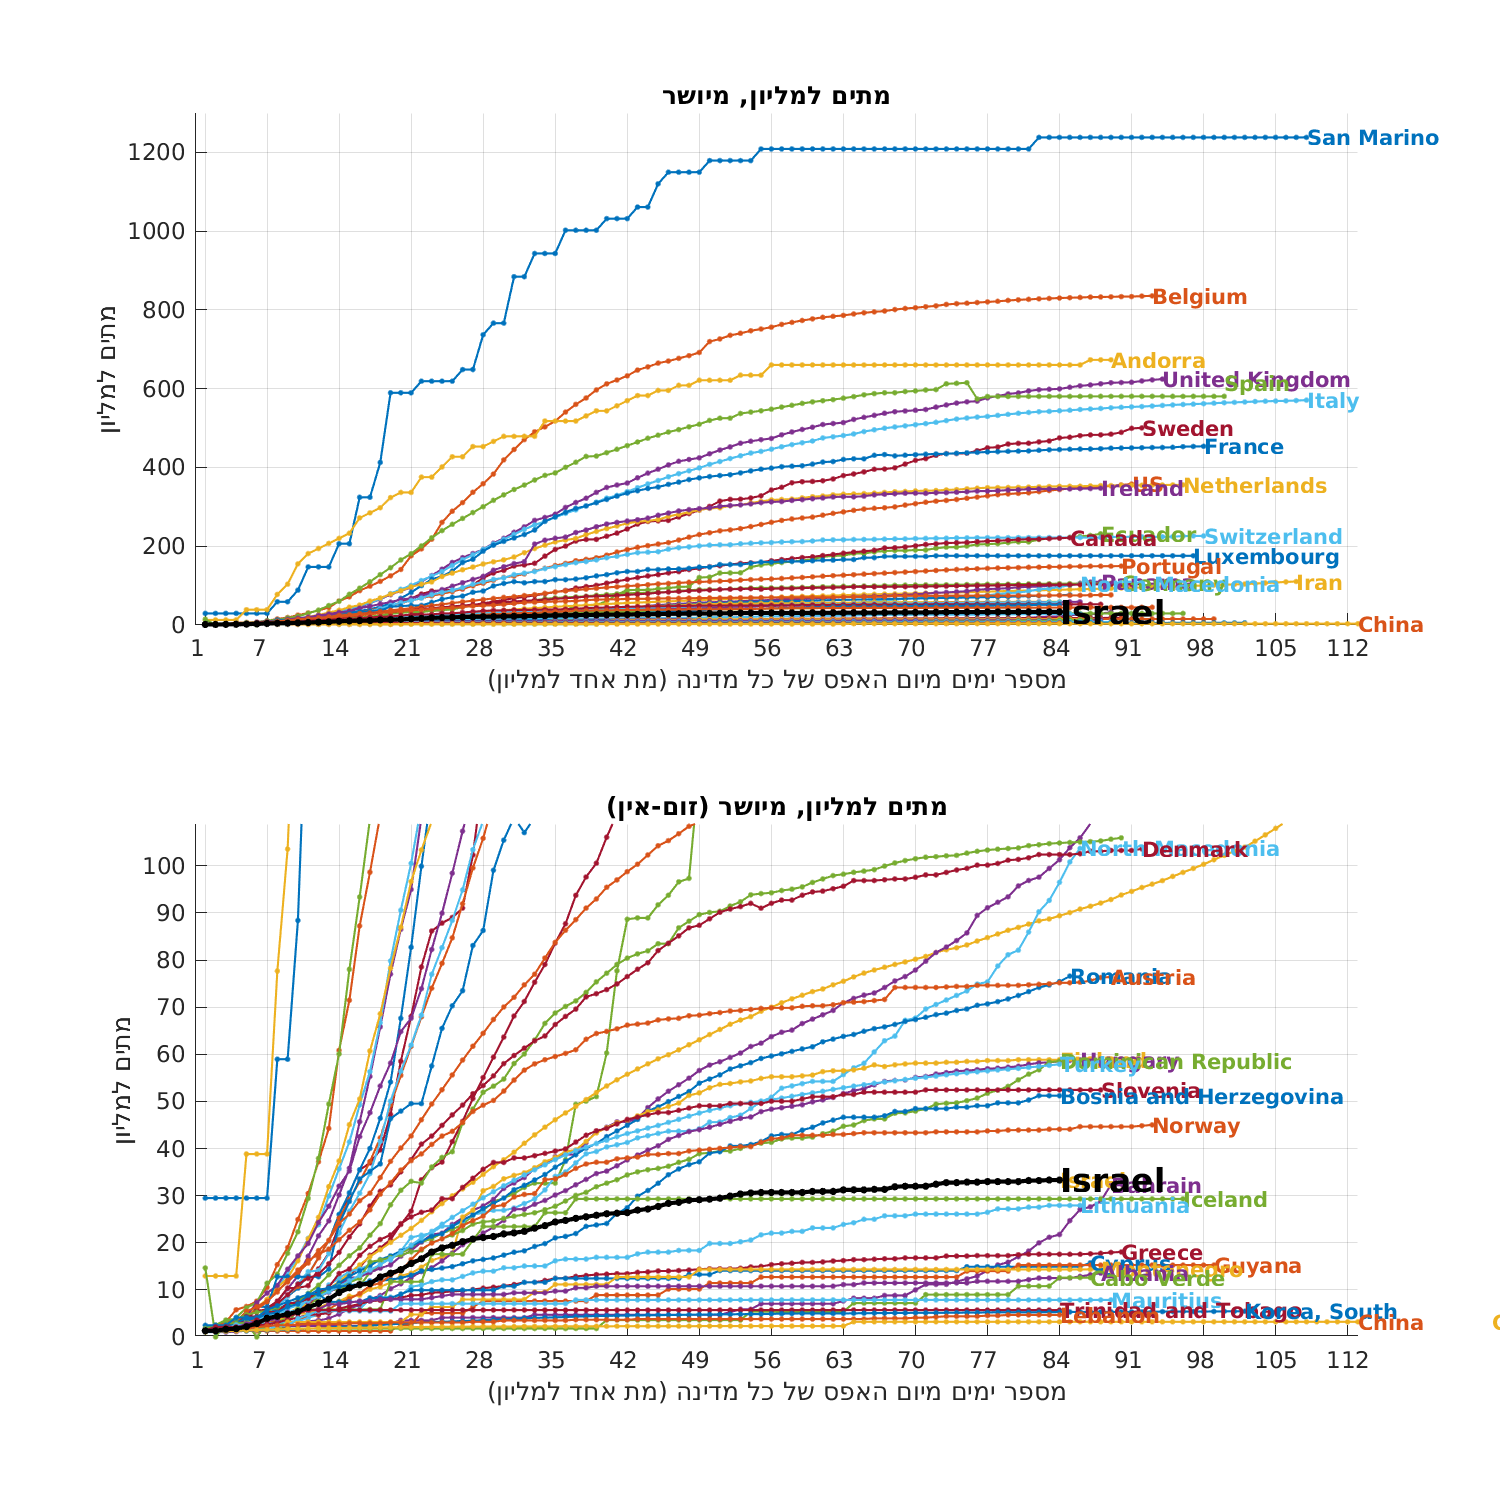
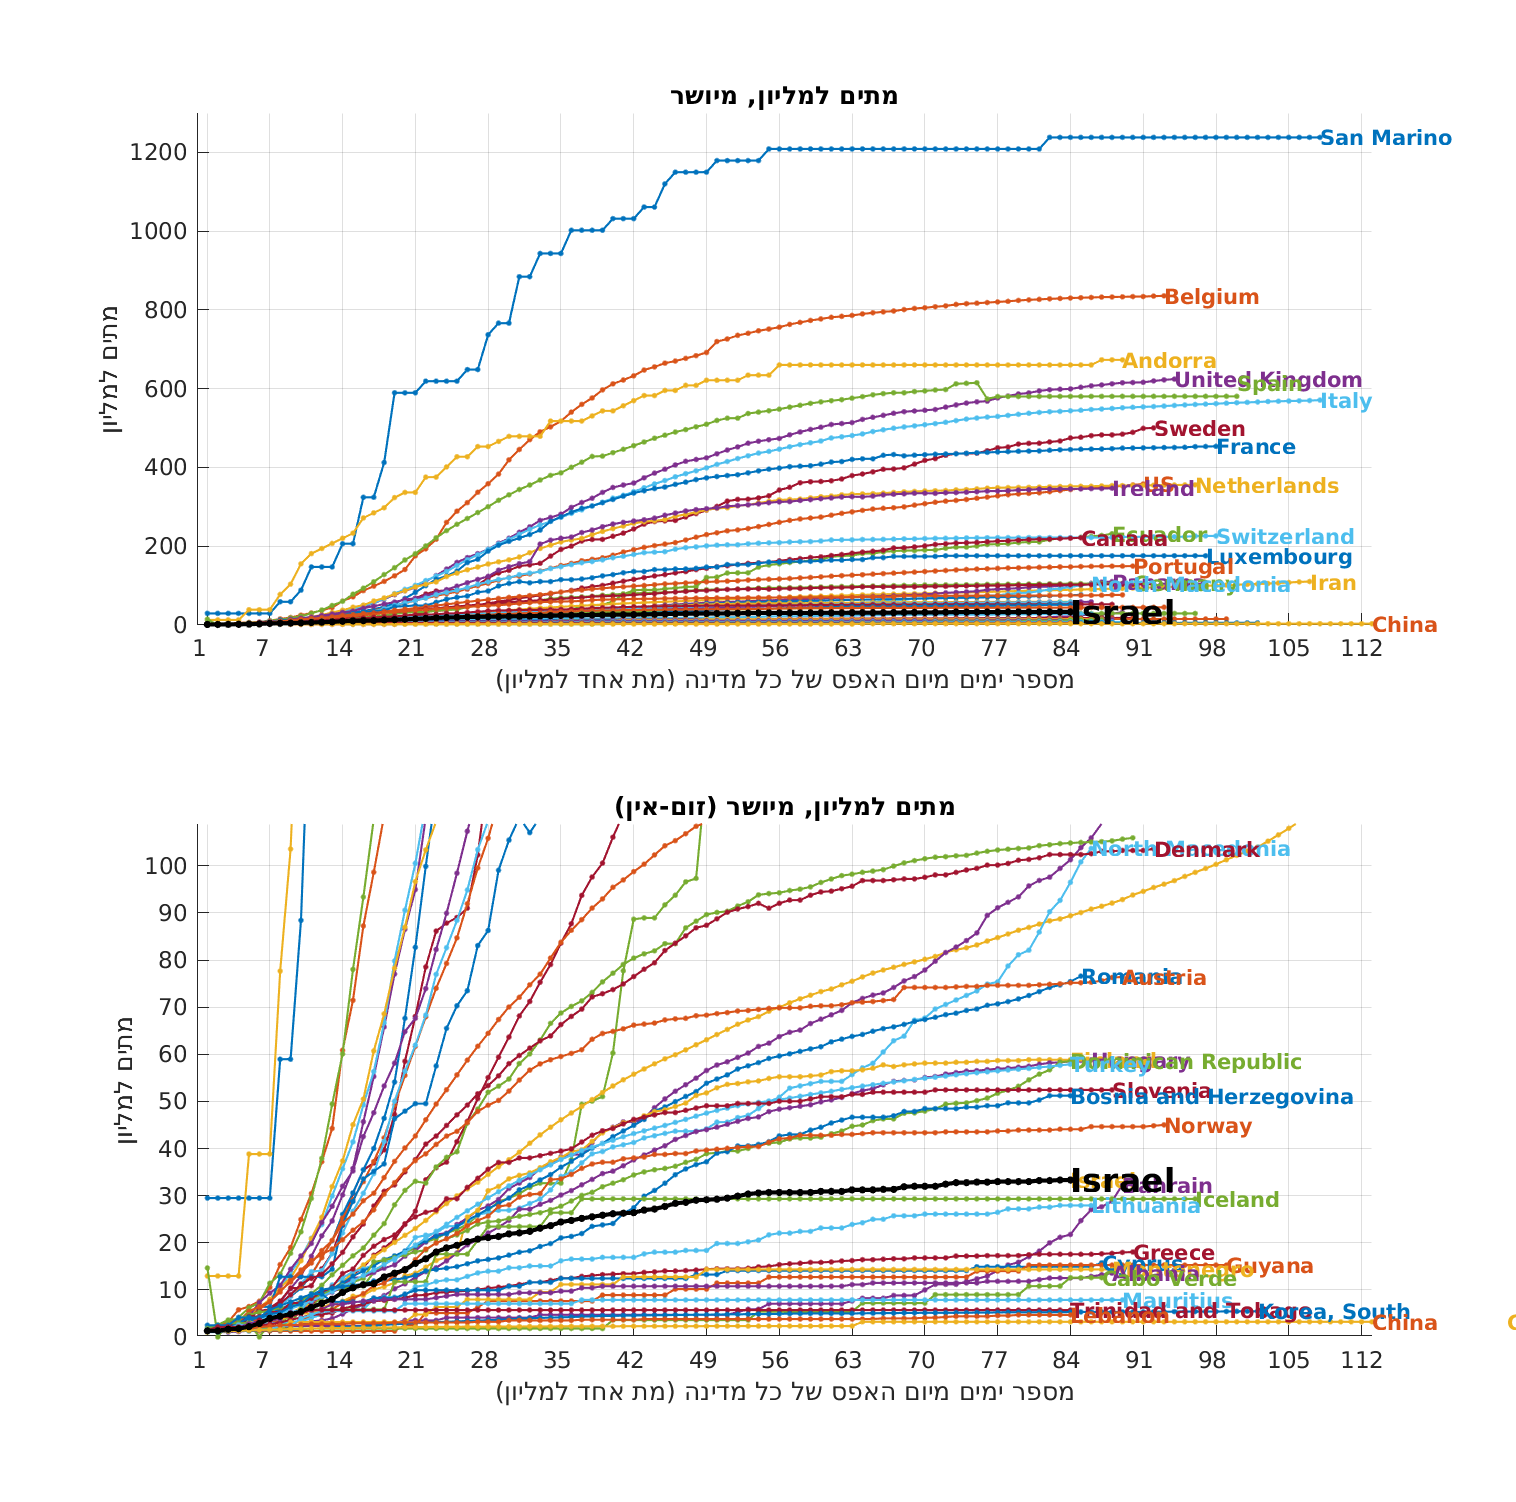
daily update

diff --git a/docs/myCountry.html b/docs/myCountry.html
@@ -123,7 +123,7 @@ body, h1,h2,h3,h4,h5,h6 {font-family: "Montserrat", sans-serif}
     <h1 class="w3-jumbo">מצב חולי הקורונה בישראל, 19.06.2020</h1>
     <h3 align="right"> כמה חולים במצב קשה, מונשמים ומתים מקורונה בכל יום. לא מוצגים נתונים לגבי מספר הנדבקים בקורונה מכיוון שהמספר תלוי במספר הבדיקות שנערכו והוא אינו משקף את מצב התחלואה האמיתי. מספר המתים ומספר המונשמים משקפים טוב יותר את המציאות, ומהם ניתן ללמוד על קצב התפשטות המחלה</h3><br>
     <h4 align="right">מצב המונשמים - (בחמשת הימים האחרונים) כל יום יש כ 1 מונשמים יותר  </h4><br>
-    <h4 align="right">מצב התמותה - (בחמשת הימים האחרונים) כ 0 נפטרים ליום </h4><br>
+    <h4 align="right">מצב התמותה - (בחמשת הימים האחרונים) כ 1 נפטרים ליום </h4><br>
     <img src="myCountry.png" alt="highest" class="w3-image" width="1600">
     <h4 align="right">מימין גרף הסוכם את כל המאושפזים. משמאל אותם הנתונים מוצגים עבור כל קבוצה בנפרד. הגרף מימין מוחלק כדי לראות טרנד כללי. משמאל קל יותר לראות שינויים קצרים, כמו המחזוריות השבועית במספר המאושפזים במצב קל </h4>
   </header>

diff --git a/code/covid_Israel_ministry.m b/code/covid_Israel_ministry.m
@@ -26,40 +26,49 @@ fid = fopen('/home/innereye/Downloads/קורונה - לוח בקרה.html', 'r')
 txt = fread(fid)';
 fclose(fid);
 txt = native2unicode(txt);
-vars = list.Properties.VariableNames(2:end);
 
-ta = strfind(txt,'total-amount');
-ta = ta(2+[1,3:5]);
-iVar = [1,4,3,2];
-iSmaller = strfind(txt,'<');
-misrad = nan(size(vars));
-for ii = 1:length(ta)
-    misrad(1,iVar(ii)) = str2num(strrep(txt(ta(ii)+14:iSmaller(find(iSmaller > ta(ii),1))-1),',',''));
-end
-marker = {
+idx = strfind(txt,'|');
+iDay = find(ismember(txt,'>') & 1:length(txt) < idx,1,'last')+1;
+day = str2num(txt(iDay:iDay+1));
+month = find(cellfun(@(x) contains(txt(iDay:idx),x),{'ינו','פבר','מרץ','אפר','מאי','יונ','יול','אוג','ספט','אוק','נוב','דצמ'}'));
+date = datetime([2020,month,day,str2num(txt(idx+14:idx+15)),str2num(txt(idx+17:idx+18)),0]);
+% date = datetime(str(txt(idx+14:idx+18),'InputFormat','hh:mm');
+if ~ismember(date,list.date)
+    vars = list.Properties.VariableNames(2:end);
+    
+    ta = strfind(txt,'total-amount');
+    ta = ta(2+[1,3:5]);
+    iVar = [1,4,3,2];
+    iSmaller = strfind(txt,'<');
+    misrad = nan(size(vars));
+    for ii = 1:length(ta)
+        misrad(1,iVar(ii)) = str2num(strrep(txt(ta(ii)+14:iSmaller(find(iSmaller > ta(ii),1))-1),',',''));
+    end
+    marker = {
         'קשה',39;...
         'בינוני',42;...
         '',nan;...
         'בי"ח',40;...
         'קהילה',48};
-
-for ii = 1:size(marker,1)
-    if ~isempty(marker{ii,1})
-        i0 = strfind(txt,marker{ii,1})+marker{ii,2};
-        i0 = i0(1);
-        i1 = iSmaller(find(iSmaller > i0,1))-1;
-        if ~strcmp(txt(i0-1),'>')
-            error('before the number there should be a ">"')
+    
+    for ii = 1:size(marker,1)
+        if ~isempty(marker{ii,1})
+            i0 = strfind(txt,marker{ii,1})+marker{ii,2};
+            i0 = i0(1);
+            i1 = iSmaller(find(iSmaller > i0,1))-1;
+            if ~strcmp(txt(i0-1),'>')
+                error('before the number there should be a ">"')
+            end
+            misrad(1,4+ii) = str2num(strrep(txt(i0:i1),',',''));
         end
-        misrad(1,4+ii) = str2num(strrep(txt(i0:i1),',',''));
     end
+    misrad(7) = misrad(1)-misrad(2)-misrad(3)-misrad(5)-misrad(6);
+    
+    
+    newRow = table(date);
+    for iV = 1:length(vars)
+        eval(['newRow.',vars{iV},' = misrad(iV);'])
+    end
+    list(end+1,:) = newRow;
+    nanwritetable(list);
 end
-misrad(7) = misrad(1)-misrad(2)-misrad(3)-misrad(5)-misrad(6);
-idx = strfind(txt,'|');
-date = datetime(txt(idx+14:idx+18),'InputFormat','hh:mm');
-newRow = table(date);
-for iV = 1:length(vars)
-    eval(['newRow.',vars{iV},' = misrad(iV);'])
-end
-list(end+1,:) = newRow;
-nanwritetable(list);
